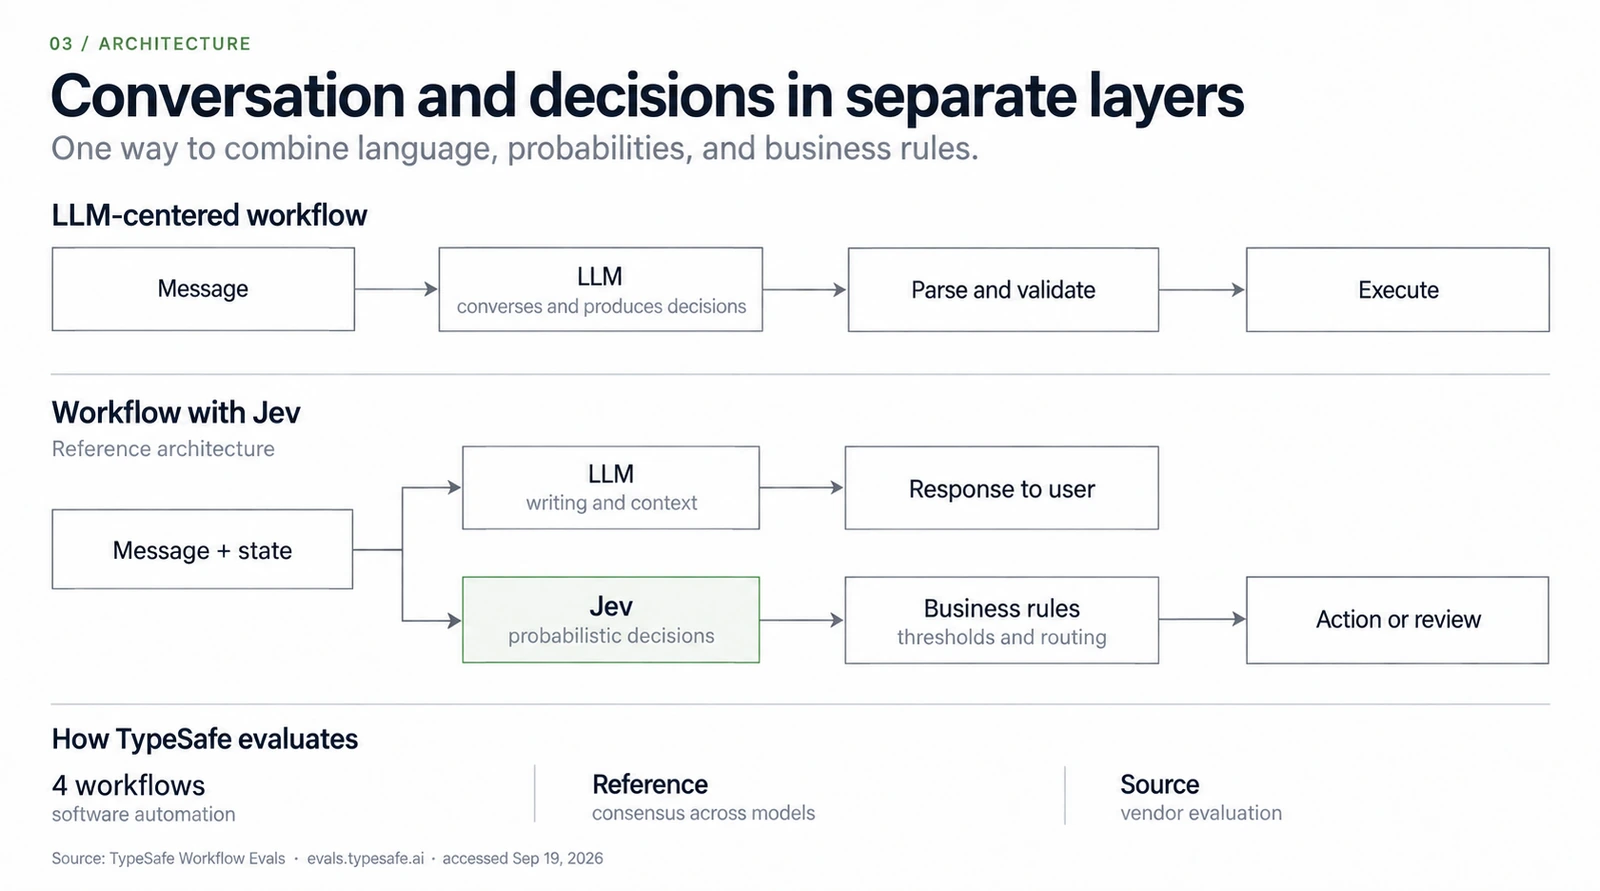
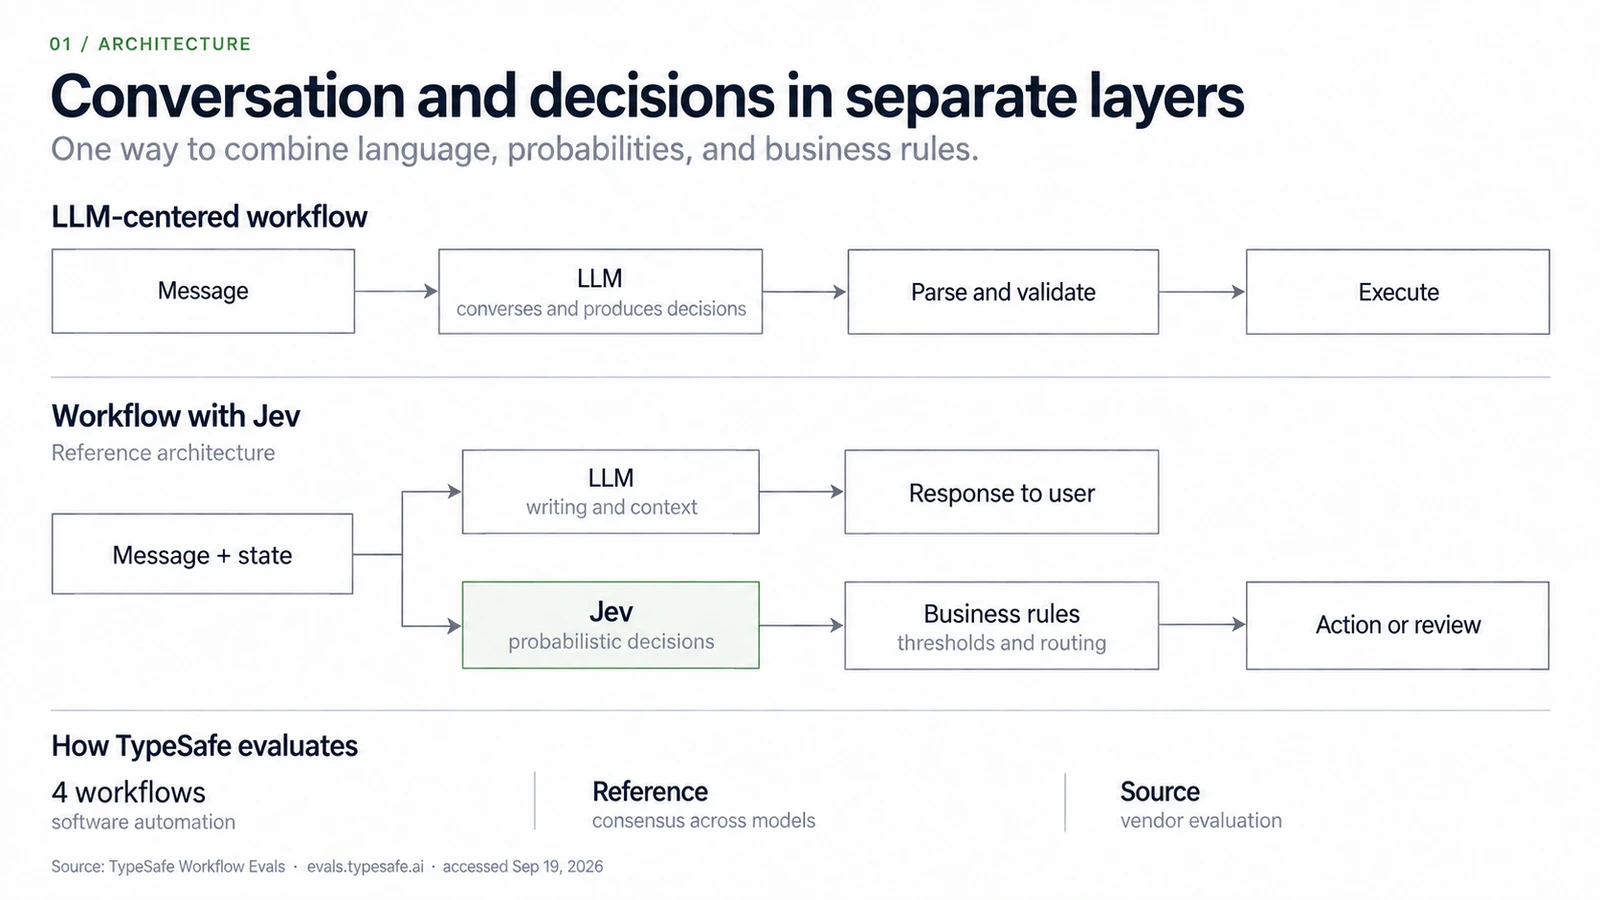
fix(blog): corrige a numeracao dos tres diagramas do post do Jev
Substitui os tres slides pela versao com a numeracao certa: 01 passa a
ser Architecture, 02 Generation and inference e 03 Confidence and
decisions, na mesma ordem em que aparecem no texto.

Os arquivos novos sao 16:9, e nao 1600x891 como os anteriores, entao o
height no markdown vai de 446 para 450 para bater com a proporcao real
e nao deslocar o layout enquanto carrega.

diff --git a/src/data/blog/2026/whoisjev.md b/src/data/blog/2026/whoisjev.md
@@ -29,7 +29,7 @@ Picture a customer support inbox and the message "I was charged twice on my card
 
 Jev starts from a predefined answer space: billing, sales or support; low, medium or high urgency; human review or no human review. It returns typed answers with probabilities and confidence estimates, without generating an explanation first. Your code can use those results to route the ticket. The output format is constrained; the decision can still be wrong.
 
-<img width="800" height="446" alt="Diagram comparing a flow where the LLM does everything with a flow where the LLM handles the conversation and Jev makes the decision" src="/assets/jev-arquitetura.webp" />
+<img width="800" height="450" alt="Diagram comparing a flow where the LLM does everything with a flow where the LLM handles the conversation and Jev makes the decision" src="/assets/jev-arquitetura.webp" />
 
 ### ChatGPT generates. Jev decides.
 
@@ -55,7 +55,7 @@ That's it. There's no "write the reply to the customer", no "explain your reason
 
 Here's the part that makes engineers raise an eyebrow. Autoregressive LLMs generate output token by token, with each new token conditioned on the input and the tokens already generated. A token can be a word, part of a word, or punctuation. Jev instead evaluates a predefined answer space and returns typed results through parallel sampling. It doesn't have to generate a text response one token at a time.
 
-<img width="800" height="446" alt="Comparison between generating tokens in sequence and typed outputs returned in parallel" src="/assets/jev-geracao-vs-decisao.webp" />
+<img width="800" height="450" alt="Comparison between generating tokens in sequence and typed outputs returned in parallel" src="/assets/jev-geracao-vs-decisao.webp" />
 
 At launch, [TypeSafe reported](https://typesafe.ai/blog/introducing-system-one-models-and-jev) 70 to 500 milliseconds end to end and a price of $0.042 per million input tokens, with no output-token charge. Those latency figures are vendor measurements, generally taken from the US West Coast, rather than a guarantee for your deployment. The output still exists; it just isn't billed as generated text.
 
@@ -65,7 +65,7 @@ There are independent measurements too. A [reproducible benchmark of agent tool-
 
 This, for me, is the most interesting claim in the package: confidence that can support a business rule. A system could act when the evidence is strong enough and send uncertain cases to review. But the threshold has to come from your data and the cost of mistakes. A routing mistake and an incorrectly blocked payment deserve different policies.
 
-<img width="800" height="446" alt="Flow where the confidence returned by Jev decides whether the system executes the action or sends it to review" src="/assets/jev-confianca.webp" />
+<img width="800" height="450" alt="Flow where the confidence returned by Jev decides whether the system executes the action or sends it to review" src="/assets/jev-confianca.webp" />
 
 Then you ask me, "but an LLM also gives me a confidence number if I ask for one", and it does. The number alone proves very little. A model saying it's confident is not the same as a probability estimate tested against observed outcomes. TypeSafe argues that training specifically for calibrated decisions improves this, but you still need to check it on your own task.
 
